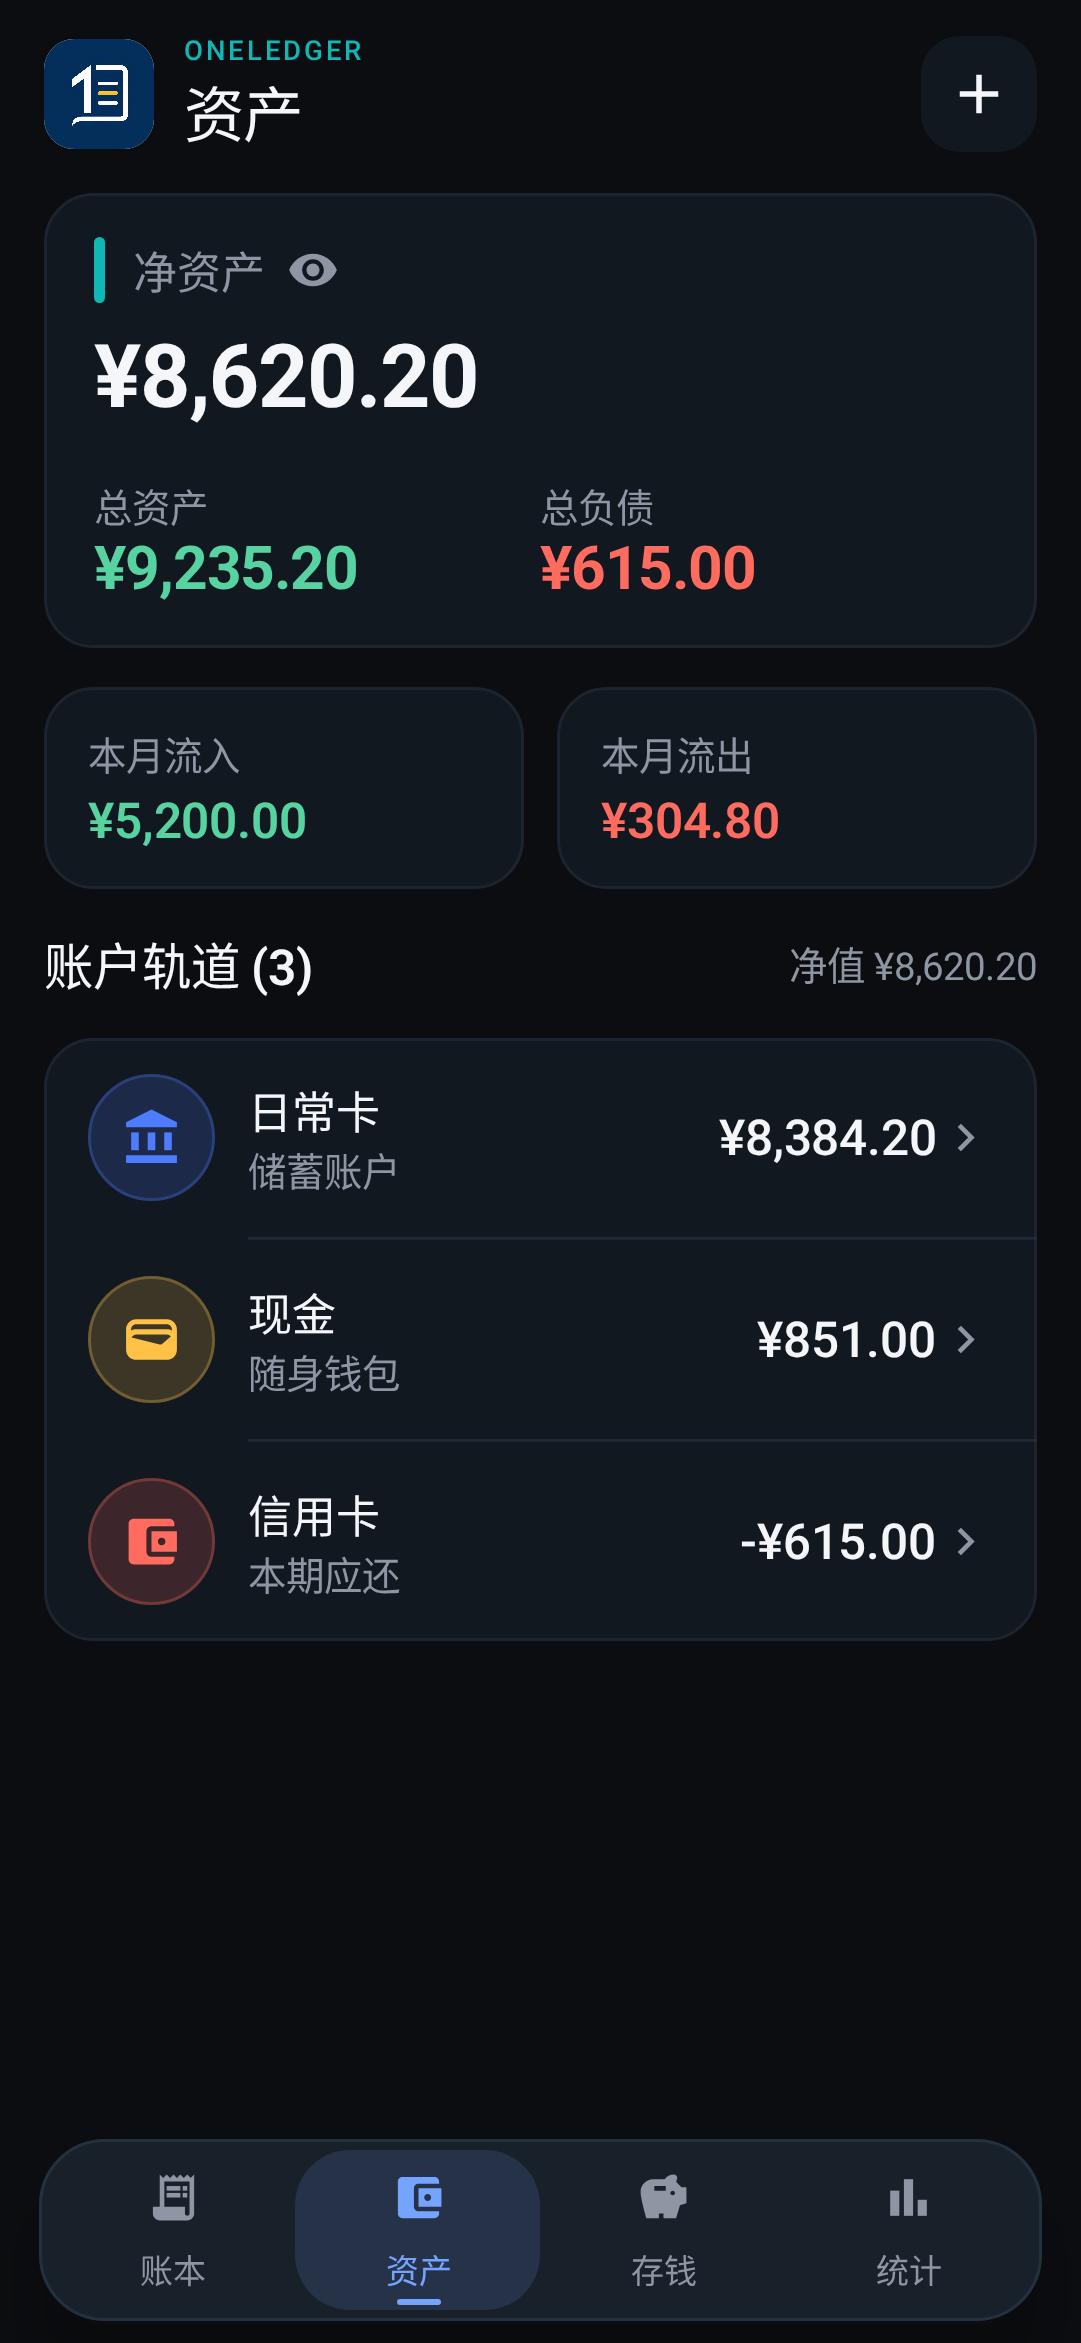
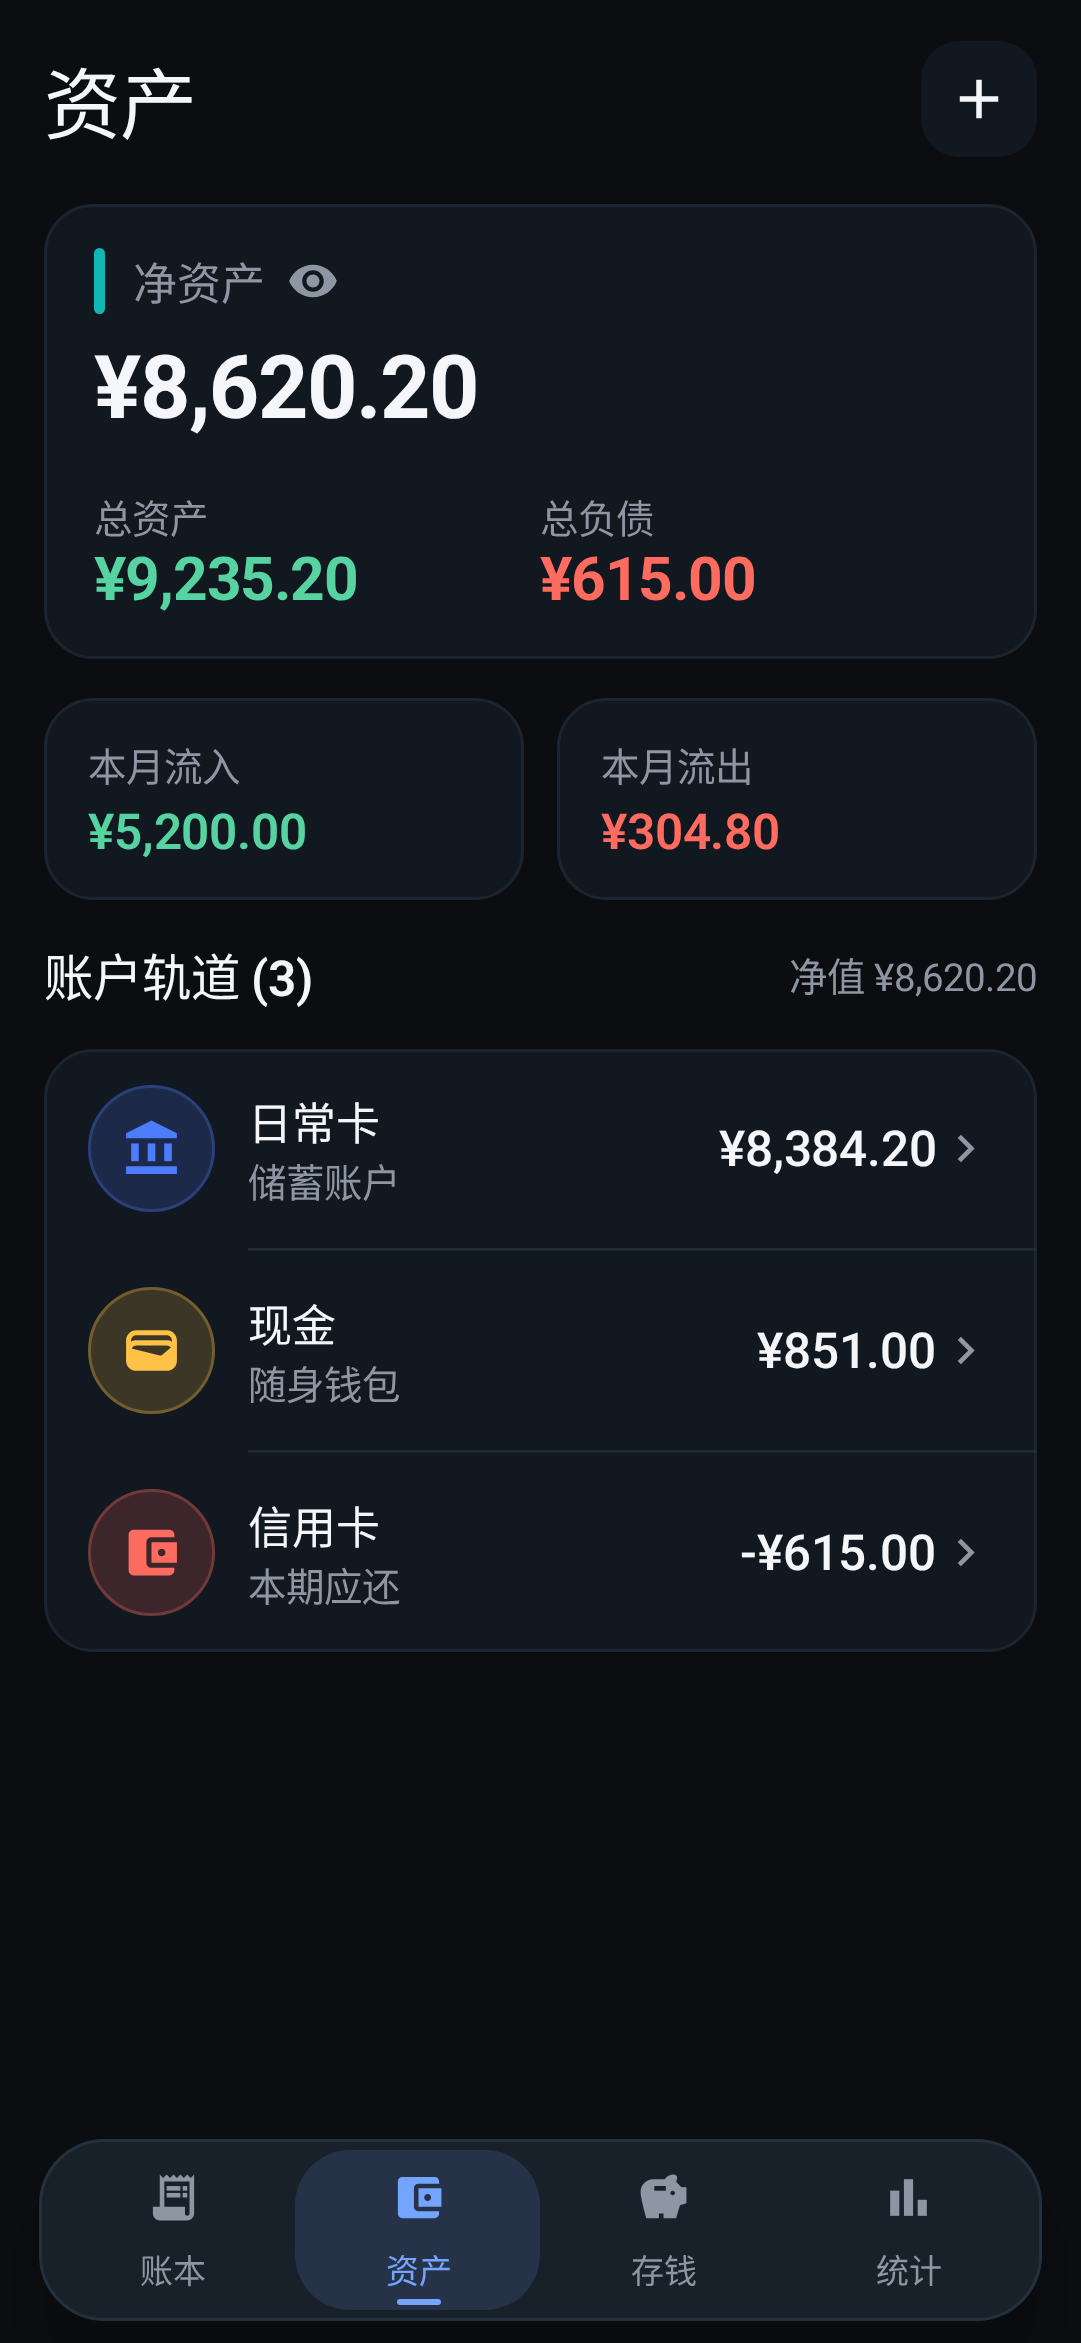
fix(ui): simplify branded page headers

diff --git a/app/src/main/java/com/oneledger/app/ui/components/LedgerComponents.kt b/app/src/main/java/com/oneledger/app/ui/components/LedgerComponents.kt
@@ -4,7 +4,6 @@ import androidx.compose.animation.core.animateFloatAsState
 import androidx.compose.animation.core.spring
 import androidx.compose.animation.core.snap
 import androidx.compose.foundation.BorderStroke
-import androidx.compose.foundation.Image
 import androidx.compose.foundation.background
 import androidx.compose.foundation.border
 import androidx.compose.foundation.interaction.MutableInteractionSource
@@ -45,19 +44,15 @@ import androidx.compose.runtime.getValue
 import androidx.compose.runtime.remember
 import androidx.compose.ui.Alignment
 import androidx.compose.ui.Modifier
-import androidx.compose.ui.layout.ContentScale
 import androidx.compose.ui.draw.scale
 import androidx.compose.ui.graphics.Color
 import androidx.compose.ui.graphics.Shape
 import androidx.compose.ui.graphics.vector.ImageVector
-import androidx.compose.ui.res.painterResource
 import androidx.compose.ui.text.font.FontWeight
 import androidx.compose.ui.text.style.TextOverflow
 import androidx.compose.ui.unit.dp
 import androidx.compose.ui.unit.sp
-import com.oneledger.app.R
 import com.oneledger.app.domain.model.AccountType
-import com.oneledger.app.ui.theme.BrandTeal
 import com.oneledger.app.ui.theme.OneLedgerMotion
 
 @Composable
@@ -98,31 +93,25 @@ fun PressableSurface(
 fun ScreenHeader(
     title: String,
     modifier: Modifier = Modifier,
-    eyebrow: String = "ONELEDGER",
     action: (@Composable () -> Unit)? = null,
 ) {
     Row(
         modifier = modifier
             .fillMaxWidth()
-            .height(44.dp),
+            .height(48.dp),
         verticalAlignment = Alignment.CenterVertically,
     ) {
-        BrandMark(Modifier.size(40.dp))
-        Column(
-            modifier = Modifier
-                .padding(start = 11.dp)
-                .weight(1f),
-            verticalArrangement = Arrangement.Center,
-        ) {
-            Text(
-                text = eyebrow,
-                style = MaterialTheme.typography.labelLarge,
-                color = BrandTeal,
-                letterSpacing = 1.2.sp,
-                fontSize = 10.sp,
-            )
-            Text(text = title, style = MaterialTheme.typography.headlineMedium)
-        }
+        Text(
+            text = title,
+            modifier = Modifier.weight(1f),
+            style = MaterialTheme.typography.headlineLarge.copy(
+                fontWeight = FontWeight.SemiBold,
+                fontSize = 28.sp,
+                lineHeight = 34.sp,
+                letterSpacing = (-0.35).sp,
+            ),
+            maxLines = 1,
+        )
         action?.invoke()
     }
 }
@@ -132,7 +121,6 @@ fun DetailHeader(
     title: String,
     onBack: () -> Unit,
     modifier: Modifier = Modifier,
-    eyebrow: String = "ONELEDGER",
     action: (@Composable () -> Unit)? = null,
 ) {
     Row(
@@ -155,39 +143,18 @@ fun DetailHeader(
                 )
             }
         }
-        Column(
+        Text(
+            text = title,
             modifier = Modifier
                 .padding(start = 12.dp)
                 .weight(1f),
-            verticalArrangement = Arrangement.Center,
-        ) {
-            Text(
-                text = eyebrow,
-                style = MaterialTheme.typography.labelLarge,
-                color = BrandTeal,
-                letterSpacing = 1.2.sp,
-                fontSize = 10.sp,
-            )
-            Text(text = title, style = MaterialTheme.typography.headlineMedium)
-        }
-        action?.invoke()
-    }
-}
-
-@Composable
-fun BrandMark(modifier: Modifier = Modifier) {
-    Surface(
-        modifier = modifier,
-        color = Color.White,
-        shape = RoundedCornerShape(11.dp),
-        shadowElevation = 3.dp,
-    ) {
-        Image(
-            painter = painterResource(R.drawable.oneledger_brand_source),
-            contentDescription = "OneLedger",
-            modifier = Modifier.fillMaxSize(),
-            contentScale = ContentScale.Crop,
+            style = MaterialTheme.typography.headlineMedium.copy(
+                fontWeight = FontWeight.SemiBold,
+                letterSpacing = (-0.25).sp,
+            ),
+            maxLines = 1,
         )
+        action?.invoke()
     }
 }
 

diff --git a/docs/requirements/APP_BRAND_ICON.md b/docs/requirements/APP_BRAND_ICON.md
@@ -7,6 +7,7 @@
   - Android 13 及以上主题图标使用的单色标志。
   - Android 23+ SplashScreen 兼容实现、浅色白底和深色模式资源。
   - 账本页右下角快速记账按钮。
+  - 页面页眉移除重复的品牌图标和 `ONELEDGER`，仅保留对应中文标题。
   - 方形品牌母版、相关文档和受影响的截图回归基准。
 - 不包含：
   - 重做页面布局、底部导航图标或添加额外启动页 Activity。
@@ -18,10 +19,12 @@
   - 标志水平、垂直中心分别锁定在 `54±0.5`；主体保持在 Android 自适应图标安全区内。
   - 启动页不人为延长停留时间，浅色使用纯白背景，深色使用 `#0B0D10` 并替换为高对比标志。
   - 快速记账按钮只使用浅蓝、品牌蓝和深蓝；顶部高光、底部暗部和边框共同形成材质，不添加装饰圆点。
+  - 品牌标志集中用于 App Icon 与启动页；四个主页面采用系统中文无衬线 `28sp / 34sp SemiBold` 标题，详情页采用“返回键 + 中文标题”。
 - 无障碍：系统启动图标继续使用应用名称；快速记账按钮保留“快速记账”语义及至少 48dp 触控区域。
 - 验收：
   - Given 用户从桌面查看应用，When 启动器显示普通、圆形或自适应图标，Then 均为白底、居中的新版标志且没有遮罩裁切。
   - Given Android 13 主题图标已启用，When 系统对图标着色，Then 标志轮廓完整可辨。
   - Given 系统为浅色或深色模式，When 冷启动应用，Then 启动页背景、标志对比度正确且标志位于屏幕中心。
   - Given 用户按下快速记账按钮，Then 蓝色按钮即时缩小，释放后无过冲地恢复，不出现青绿色或装饰噪点。
+  - Given 用户进入任意主页面或详情页，When 查看左上页眉，Then 不出现品牌图标或 `ONELEDGER`，只显示对应中文标题及必要的返回入口。
   - Given 执行截图回归，When 渲染账本页，Then 只有预期的快速记账按钮区域发生变化。

diff --git a/README.md b/README.md
@@ -61,7 +61,7 @@ OneLedger 是一款本地优先的 Android 个人记账应用，目前处于 v0.
 - 统计：时间范围切换、收支摘要、分类排行
 - 快速记账 Sheet：支出/收入/转账、分类矩阵、账户、备注、表达式键盘、连续记账与自定义日期时间；加减表达式只在点击等号时结算，自定义数字键盘和系统输入法通过共享底部承载区连续交接，本地写入 Room
 - 账单维护：从账本首页或收支日历打开账单，复用记账 Sheet 修改全部核心字段；支持删除确认、失败保留输入和 Snackbar 撤销恢复
-- OneLedger「票据轨道」视觉语言：固定品牌页眉、预算轨道、资金脉冲、紧凑底栏与深浅分层的品牌蓝记账入口
+- OneLedger「票据轨道」视觉语言：仅保留中文标题的系统字体页眉、预算轨道、资金脉冲、紧凑底栏与深浅分层的品牌蓝记账入口
 - 深色与浅色设计系统、即时按压反馈、克制的选中态动效
 - 用户提供的白底 OneLedger“折叠数字 1 + 账页”品牌图已用于视觉居中的普通/圆形/自适应图标及 Android 主题单色图标；启动页支持白底浅色模式与无白闪的深色模式
 - 四个主页面、三个账本子页面、日历与预算的未来月份、品牌图标/深色启动标志、快速记账及表达式状态、账单编辑深浅主题与日期时间选择器的十七张 Compose 截图基准和像素回归测试
